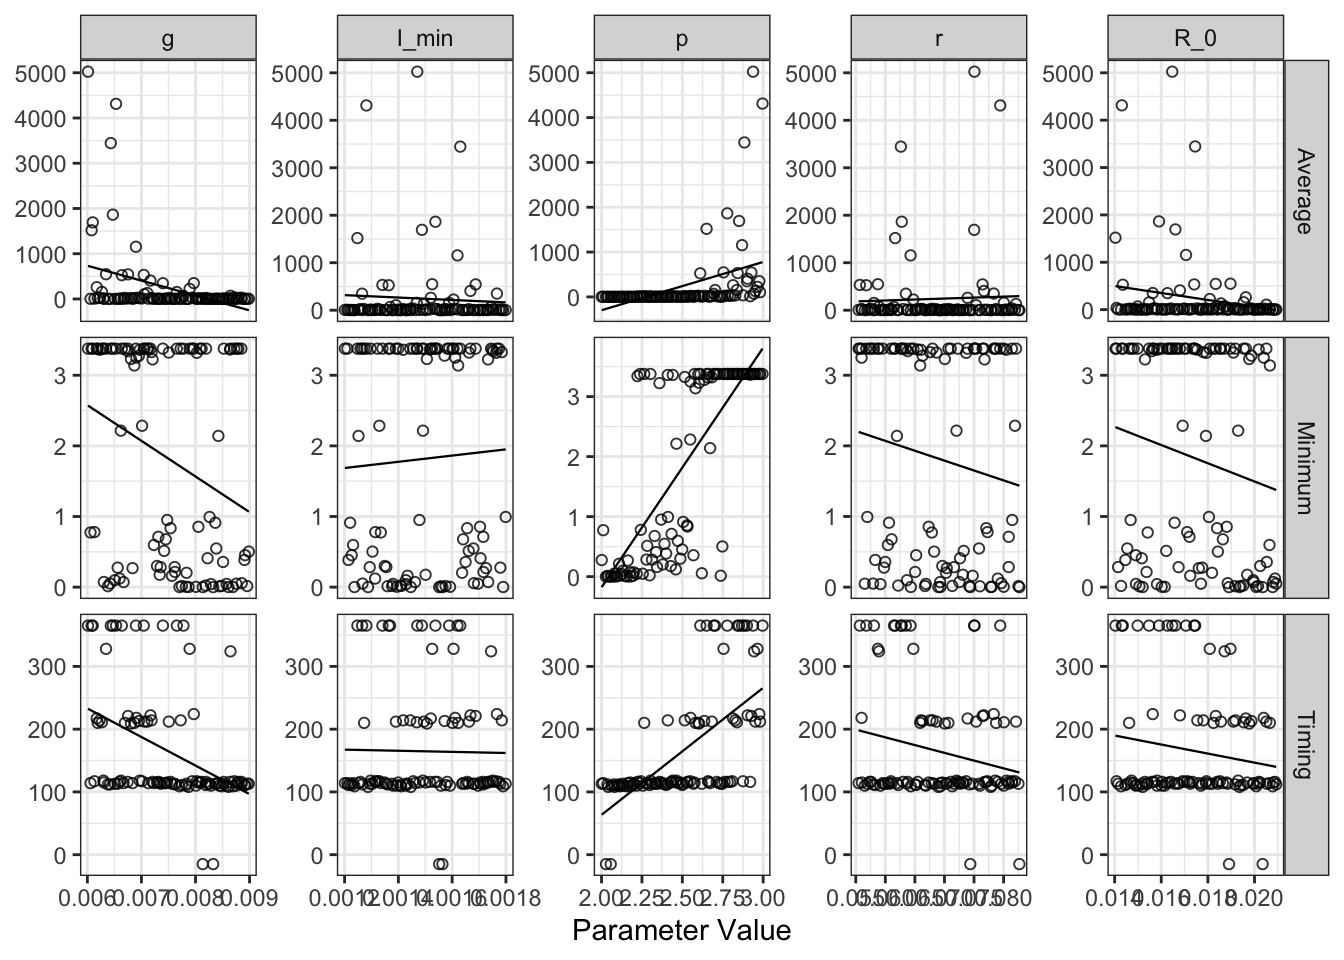
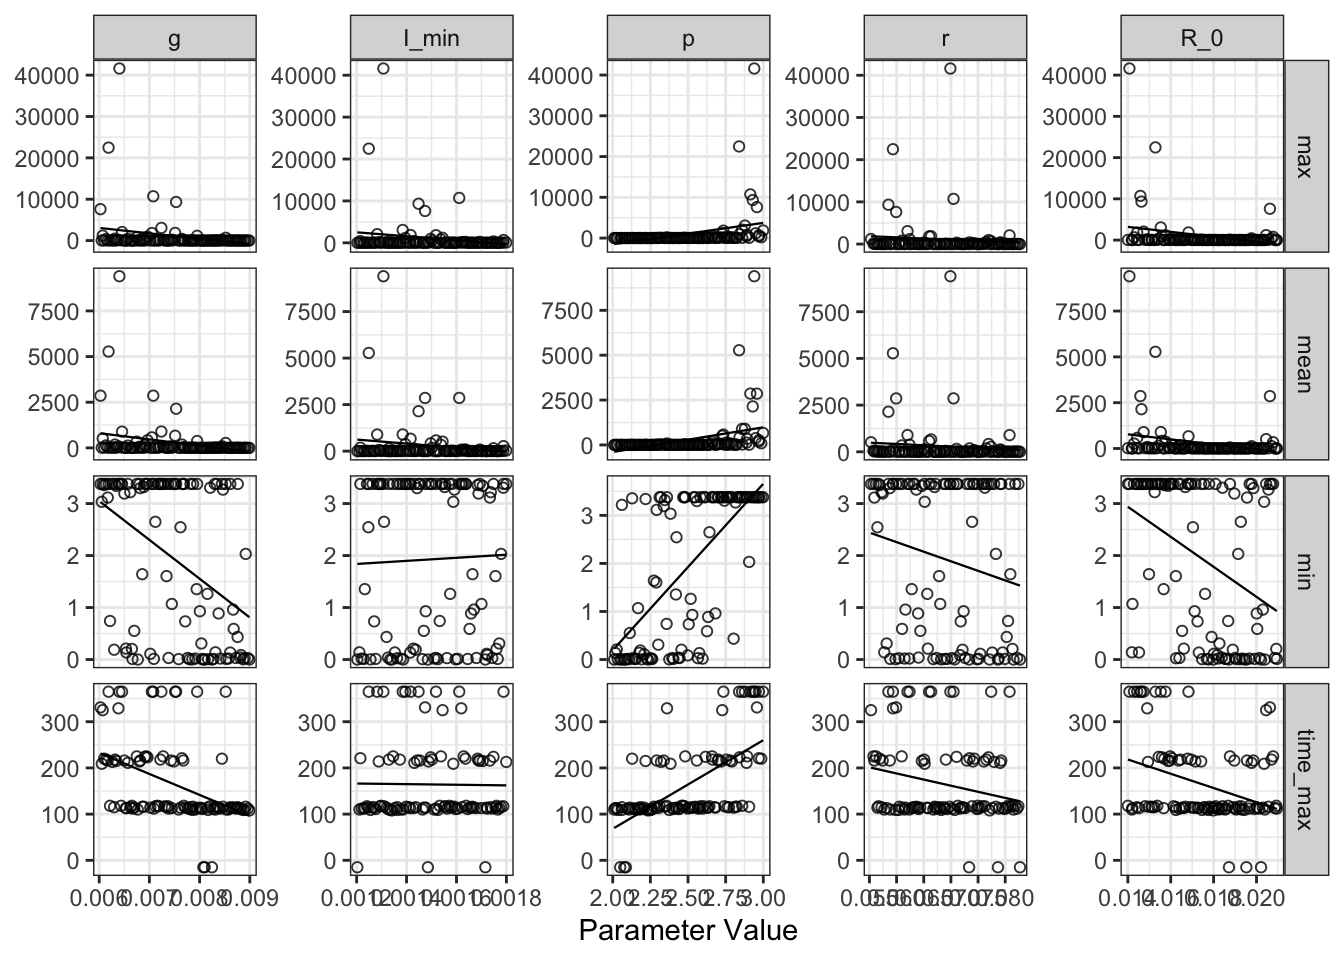
updated html with new global sens fct

Changed region(s): [[0.0, 0.0, 1.0, 1.0]]

diff --git a/scripts/riley_presentation.html b/scripts/riley_presentation.html
@@ -791,7 +791,7 @@ Figure&nbsp;6: Local sensitivity analysis
 <span id="cb22-5"><a href="#cb22-5" aria-hidden="true" tabindex="-1"></a>res_unif <span class="sc">%&gt;%</span></span>
 <span id="cb22-6"><a href="#cb22-6" aria-hidden="true" tabindex="-1"></a>  <span class="co">#make long</span></span>
 <span id="cb22-7"><a href="#cb22-7" aria-hidden="true" tabindex="-1"></a>  <span class="fu">pivot_longer</span>(</span>
-<span id="cb22-8"><a href="#cb22-8" aria-hidden="true" tabindex="-1"></a>    Average<span class="sc">:</span>Timing,</span>
+<span id="cb22-8"><a href="#cb22-8" aria-hidden="true" tabindex="-1"></a>    mean<span class="sc">:</span>time_max,</span>
 <span id="cb22-9"><a href="#cb22-9" aria-hidden="true" tabindex="-1"></a>    <span class="at">values_to =</span> <span class="st">"metric_value"</span>,</span>
 <span id="cb22-10"><a href="#cb22-10" aria-hidden="true" tabindex="-1"></a>    <span class="at">names_to =</span> <span class="st">"metric"</span></span>
 <span id="cb22-11"><a href="#cb22-11" aria-hidden="true" tabindex="-1"></a>  ) <span class="sc">%&gt;%</span></span>
@@ -854,7 +854,7 @@ Figure&nbsp;7: Global sensitivity LHS
 <span id="cb24-3"><a href="#cb24-3" aria-hidden="true" tabindex="-1"></a>res_norm <span class="sc">%&gt;%</span></span>
 <span id="cb24-4"><a href="#cb24-4" aria-hidden="true" tabindex="-1"></a>  <span class="co">#make long</span></span>
 <span id="cb24-5"><a href="#cb24-5" aria-hidden="true" tabindex="-1"></a>  <span class="fu">pivot_longer</span>(</span>
-<span id="cb24-6"><a href="#cb24-6" aria-hidden="true" tabindex="-1"></a>    Average<span class="sc">:</span>Timing,</span>
+<span id="cb24-6"><a href="#cb24-6" aria-hidden="true" tabindex="-1"></a>    mean<span class="sc">:</span>time_max,</span>
 <span id="cb24-7"><a href="#cb24-7" aria-hidden="true" tabindex="-1"></a>    <span class="at">values_to =</span> <span class="st">"metric_value"</span>,</span>
 <span id="cb24-8"><a href="#cb24-8" aria-hidden="true" tabindex="-1"></a>    <span class="at">names_to =</span> <span class="st">"metric"</span></span>
 <span id="cb24-9"><a href="#cb24-9" aria-hidden="true" tabindex="-1"></a>  ) <span class="sc">%&gt;%</span></span>
